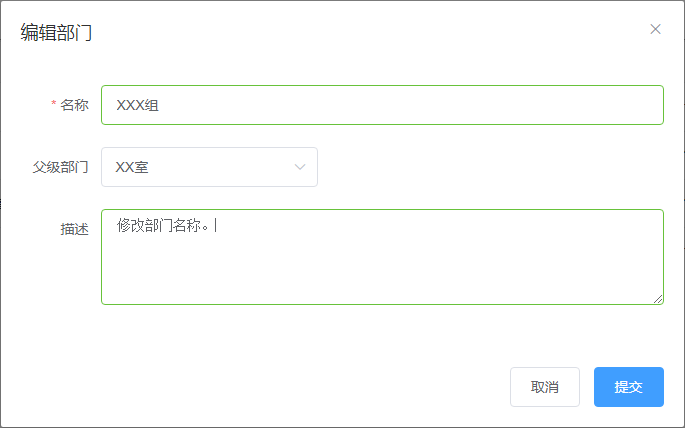
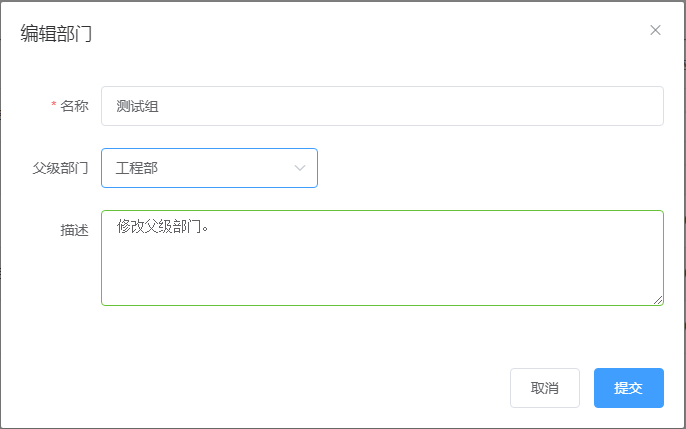
GitBook: [master] one page and 11 assets modified

diff --git a/xi-tong-guan-li/zu-zhi-guan-li.md b/xi-tong-guan-li/zu-zhi-guan-li.md
@@ -1,54 +1,54 @@
 ---
-description: 部门管理包括新建部门、编辑部门和删除部门，仅系统管理员具有权限进行操作。
+description: 部门管理包括新建部门、编辑部门和删除部门。
 ---
 
 # 部门管理
 
 ## 新建部门
 
-系统管理员登录SysLink系统后，点击“流程”菜单，接着展开左侧的“系统管理”项。
+系统管理员登录SysLink web端后，点击右上角图标，弹出下拉菜单。
 
-![&#x5C55;&#x5F00;&#x201C;&#x7CFB;&#x7EDF;&#x7BA1;&#x7406;&#x201D;&#x9879;](../.gitbook/assets/zhan-kai-xin-xi-tong-guan-li-xiang.png)
+![&#x70B9;&#x51FB;&#x53F3;&#x4E0A;&#x89D2;&#x56FE;&#x6807;](../.gitbook/assets/bu-men-guan-li-1.png)
 
-点击“组织管理”项，进入到“组织管理”页面，可以在右侧查看组织列表信息。
+点击“系统管理”菜单，进入到“系统管理”页面。当前为“组织管理”页面，可以在右侧查看组织列表信息。
 
-![&#x7EC4;&#x7EC7;&#x5217;&#x8868;](../.gitbook/assets/zu-zhi-lie-biao.png)
+![&#x7EC4;&#x7EC7;&#x5217;&#x8868;](../.gitbook/assets/bu-men-guan-li-2.png)
 
-点击“新建”按钮，弹出“新建部门”对话框，如下图所示。
+点击“添加”按钮，弹出“新建部门”对话框，如下图所示。
 
-![&#x201C;&#x65B0;&#x5EFA;&#x90E8;&#x95E8;&#x201D;&#x5BF9;&#x8BDD;&#x6846;](../.gitbook/assets/xin-jian-zu-zhi-1.png)
+![&#x201C;&#x65B0;&#x5EFA;&#x90E8;&#x95E8;&#x201D;&#x5BF9;&#x8BDD;&#x6846;](../.gitbook/assets/bu-men-guan-li-3.png)
 
-这里在“名称”项中输入如“805所”，在父级部门的下拉框中选择父级部门如为“XX室”，接着填写描述信息。
+在“新建部门”对话框中设置部门的名称、父级部门和描述信息，这里设置名称为“测试组”，“父级部门”为“同元软控”，“描述信息”为“新增测试组”。
 
-![&#x65B0;&#x5EFA;&#x90E8;&#x95E8;](../.gitbook/assets/xin-jian-bu-men-2.png)
+![&#x65B0;&#x5EFA;&#x90E8;&#x95E8;](../.gitbook/assets/bu-men-guan-li-4.png)
 
-点击“提交”按钮，在部门列表中可查看到新创建的部门“XX组”。
+点击“提交”按钮，在部门列表中可查看到新创建的部门“测试组”。
 
-![&#x65B0;&#x5EFA;&#x90E8;&#x95E8;&#x6548;&#x679C;](../.gitbook/assets/xin-jian-bu-men-3.png)
+![&#x65B0;&#x5EFA;&#x90E8;&#x95E8;&#x6548;&#x679C;](../.gitbook/assets/bu-men-guan-li-5.png)
 
 ## 编辑部门
 
-在部门列表中选中一个部门如新建的“XX组”，接着点击“编辑”按钮，弹出“编辑部门”对话框。
+在部门列表中选中一个部门如新建的“测试组”，接着点击“编辑”按钮，弹出“编辑部门”对话框。
 
-![&#x201C;&#x7F16;&#x8F91;&#x90E8;&#x95E8;&#x201D;&#x5BF9;&#x8BDD;&#x6846;](../.gitbook/assets/bian-ji-bu-men.png)
+![&#x201C;&#x7F16;&#x8F91;&#x90E8;&#x95E8;&#x201D;&#x5BF9;&#x8BDD;&#x6846;](../.gitbook/assets/bian-ji-bu-men-1.png)
 
-在“编辑部门”对话框中编辑部门名称、父级部门和描述项，这里将部门名称修改为“XXX组”，“描述”中输入“修改部门名称。”。
+在“编辑部门”对话框中编辑部门名称、父级部门和描述信息，这里修改“父级部门”为“工程部”，“描述”为“修改父级部门”。
 
 ![&#x7F16;&#x8F91;&#x90E8;&#x95E8;](../.gitbook/assets/bian-ji-bu-men-2.png)
 
-点击“提交”按钮，在部门列表中可查看到编辑后的部门“XXX组”。
+点击“提交”按钮，在部门列表中可查看到编辑后的部门“测试组”。
 
-![&#x7F16;&#x8F91;&#x90E8;&#x95E8;&#x540E;&#x7684;&#x6548;&#x679C;](../.gitbook/assets/bian-ji-bu-men-3.png)
+![&#x7F16;&#x8F91;&#x90E8;&#x95E8;&#x540E;&#x7684;&#x6548;&#x679C;](../.gitbook/assets/bian-ji-bu-men-3%20%281%29.png)
 
 ## 删除部门
 
-在部门列表中，选中一个部门如编辑后的“XXX组”，点击“删除”按钮，弹出删除部门确认框。
+在部门列表中，选中一个部门如编辑后的“测试组”，点击“删除”按钮，弹出删除部门的提示框。
 
-![&#x662F;&#x5426;&#x5220;&#x9664;&#x90E8;&#x95E8;](../.gitbook/assets/shan-chu-bu-men.png)
+![&#x5220;&#x9664;&#x90E8;&#x95E8;&#x63D0;&#x793A;&#x6846;](../.gitbook/assets/shan-chu-bu-men-1%20%281%29.png)
 
 点击“确定“按钮，选中的部门从部门列表中删除。若部门中存在人员，则随着部门也一并删除。
 
-![&#x5220;&#x9664;&#x90E8;&#x95E8;&#x540E;&#x7684;&#x6548;&#x679C;](../.gitbook/assets/shan-chu-bu-men-1.png)
+![&#x5220;&#x9664;&#x90E8;&#x95E8;&#x540E;&#x7684;&#x6548;&#x679C;](../.gitbook/assets/shan-chu-bu-men-2.png)
 
 若删除的部门为父级部门，则其隶属部门及隶属部门人员也将删除。其中，根部门为系统默认部门，不允许被删除。
 
